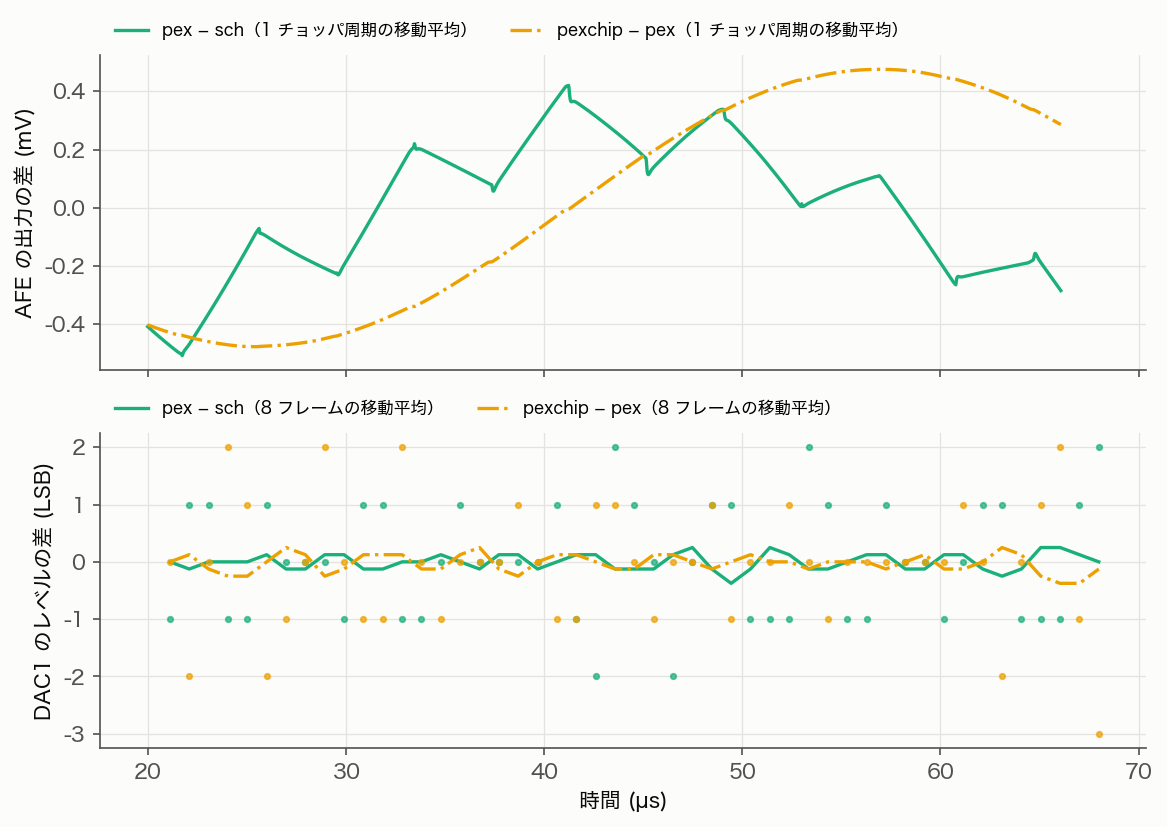
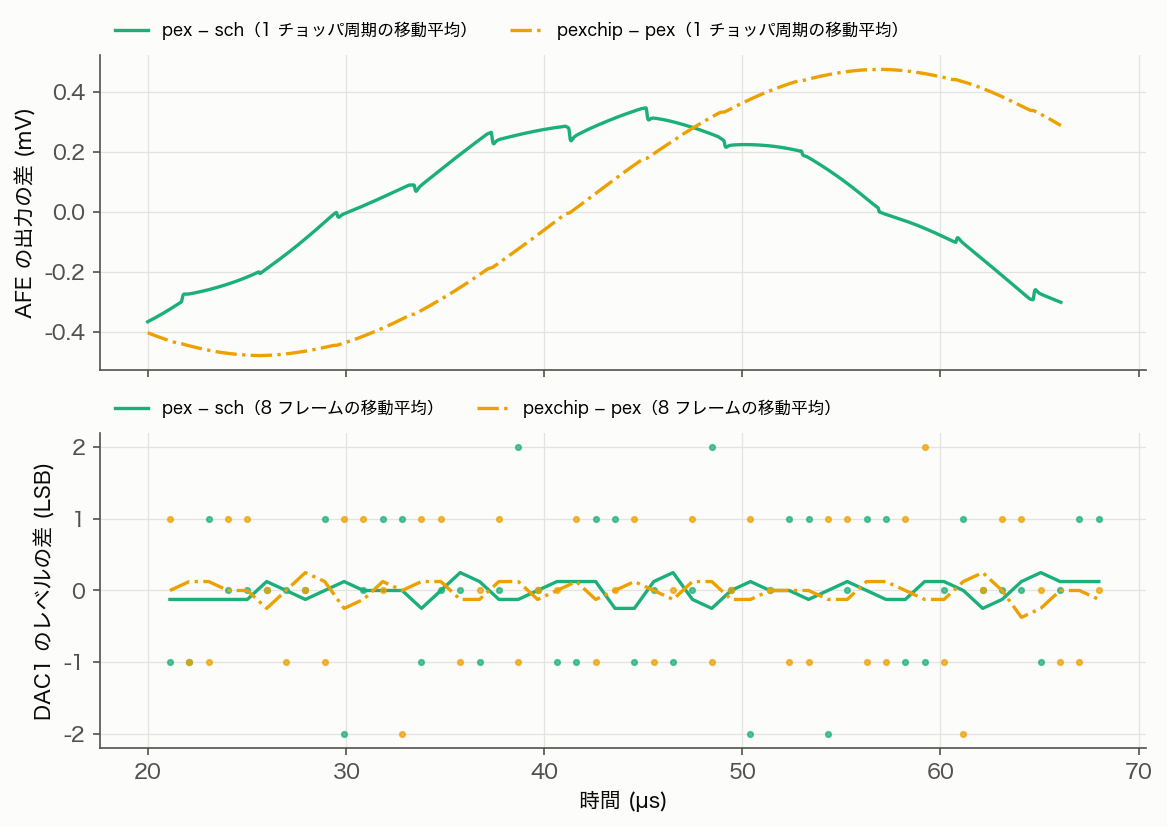
GF180 可視化／D4／D6：可視化の図（20、23、24 を除く）と寄生込みの E2E の図を 4 回目のチップ（9b5f495a）で作り直し、配線抵抗・歪み・E2E を測り直した。配線抵抗（pex_rin.py）：E 0.168／0.211、W 0.343／0.570、T 0.119／0.124 Ω。WN の W が 0.339 → 0.570 Ω に増えていた（電極の DC 電流の直しで、チョッパの下の WN の面からゲートのレーンの通路を外したため、通路を渡るのが Cin_N のバス 5 µm だけになった）。pex_afe.py の RIN_EXTRACTED を 4 回目の値にし

diff --git a/first_tapeout_eeg/gf180/tapeout/viz/figs.py b/first_tapeout_eeg/gf180/tapeout/viz/figs.py
@@ -30,7 +30,7 @@ from vizstyle import ACCENT, BAD, HAIR, INK, INK2, LIGHT, MUTED, OK, WARN, figur
 DATA, OUT = sys.argv[1], sys.argv[2]
 os.makedirs(OUT, exist_ok=True)
 PREFIX = "gf180_viz_20261024_"
-STAMP = "Final layout, 24 Oct 2026"
+STAMP = "Final layout, 25 Oct 2026"
 
 # net-class palette (checked for colour-vision deficiency separation in this order)
 PAL = {"Supply": "#ea580c", "Ground": "#4f46e5", "Electrode input": "#e11d48", "AFE output": "#0d9488",
@@ -477,7 +477,8 @@ def fig_rwire():
                  "Noise-equivalent series resistance per side (Ω, log): E pad to chopper · W chopper to the Cin bottom plate · "
                  "T Cin top plate to the input-pair gates",
                  note="T was set by the auto-routed gate wiring of the input pair (0.38 µm wires, single vias) before the D6 fixes. "
-                      "The per-side target for 16.50 bit is 0.35 Ω.")
+                      "The per-side target for 16.50 bit is 0.35 Ω.\nW · N is 0.23 Ω above W · P: below the chopper only the 5 µm "
+                      "Cin_N bus crosses the corridor of the chopper's gate lanes (since 25 Oct, electrode-current fix).")
     ax = fig.add_subplot()
     n = len(groups)
     y = np.arange(n)[::-1] * 1.0
@@ -526,7 +527,9 @@ def fig_dist():
                 ax.plot([hi + off, hi + off], [-175, val], color=vcol[v], lw=1.6, alpha=0.45, solid_capstyle="butt")
                 ax.scatter([hi + off], [val], s=44, color=vcol[v], zorder=3, edgecolor="white", linewidth=0.8,
                            label=v if hi == 0 or (h == "HD2" and v.startswith("Single")) else None)
-                ax.text(hi + off + 0.06, val + 2.2, f"{val:.0f}".replace("-", "−"), fontsize=7.4, color=vcol[v], ha="left", va="bottom")
+                left = vi == 0 and len(vers) > 1          # (labels outward, clear of the neighbouring stem)
+                ax.text(hi + off + (-0.06 if left else 0.06), val + 2.2, f"{val:.0f}".replace("-", "−"), fontsize=7.4, color=vcol[v],
+                        ha="right" if left else "left", va="bottom")
         ax.axhline(-111, color=BAD, ls=(0, (5, 3)), lw=1)
         ax.text(3.45, -111 + 1.5, "spec ≤ −111 dBc", ha="right", va="bottom", fontsize=8, color=BAD)
         ax.set_xticks(range(4), harm)
@@ -547,7 +550,7 @@ def fig_metrics():
     dm = {r["metric"]: r for r in load("adc_metrics")}
     fig = figure(13.6, 7.6, "Schematic against layout, AFE and ADC",
                  "Each panel compares the schematic, the 10/23 extraction (before the D6 fixes) and the final extracted layout",
-                 note="AFE gain from the ±0.5 mV chopped transient (200 µs); the 70 µs end-to-end sine gives 291.45 V/V (schematic) and 291.36 V/V (final). "
+                 note="AFE gain from the ±0.5 mV chopped transient (200 µs); the 70 µs end-to-end sine gives 291.45 V/V (schematic) and 291.34 V/V (final). "
                       "SNDR values are the low end of each simulated range.\nADC 'after fixes' is the 10/24 extraction before the B4 latch fix; "
                       "the decision-accuracy panel also shows the value after it.")
     axs = fig.subplots(2, 5)
@@ -685,7 +688,7 @@ def fig_checks():
         colours[(i, 3)] = OK if res in ("pass", "match") else BAD if res == "no result" else WARN
         body.append([r["check"], r["scope"], r["tool"], "● " + res, "–" if r["violations"] == "" else f"{int(num(r['violations'])):,}", r["detail"]])
     table_fig("13_checks", "Checks on the final chip",
-              "DRC, LVS, wafer.space precheck, Magic and digital verification · 23–24 Oct 2026",
+              "DRC, LVS, wafer.space precheck, Magic and digital verification · 23–25 Oct 2026",
               ["Check", "Scope", "Tool", "Result", "Violations", "Detail"], body, [0.22, 0.15, 0.2, 0.09, 0.07, 0.27],
               note="The precheck's Magic step crashes inside Magic and is reported as 0 by LibreLane; Magic DRC was rerun without the "
                    "dummy COMP fill. Its two remaining rule types come from the Magic deck's wording; the drawn geometry meets both.",

diff --git a/first_tapeout_eeg/gf180/tapeout/viz/figs_perf.py b/first_tapeout_eeg/gf180/tapeout/viz/figs_perf.py
@@ -196,8 +196,9 @@ def fig_e2e_effects():
     pe, d = e2e_runs()
     fig = figure(12.4, 9.0, "End-to-end run: what the parasitics change",
                  "Evaluation window 20–70 µs · the same 16 kHz full-scale sine as the previous figure",
-                 note="Middle: the A/B square wave decays with the DC path's time constant (fit 143 µs, DC path 138 µs): the "
-                      "P/N imbalance left when the AFE reset is released. The AFE alone settles to 2.02 mV p-p (0.1–1.5 ms).\n"
+                 note="Middle: the A/B square wave is the P/N imbalance left when the AFE reset is released; it decays (fit 101 µs "
+                      "in this window, DC path 138 µs). Before the 25 Oct fix of the input chopper's clock coupling (WP against WN) "
+                      "it was 18.8 mV.\nThe AFE alone settles to 2.38 mV p-p (0.1–1.5 ms). "
                       "Bottom: the residual is noise-shaped quantization error, mostly above the band; one DAC1 element is "
                       "1/31 = 0.032 of the range.")
     axs = fig.subplots(3, 1, sharex=True)
@@ -274,8 +275,9 @@ def fig_e2e_metrics():
     dots(axs[0, 2], "residual", "DAC1 residual after the sine fit", "rms (DAC1 range = 1)", (0, 0.045), "{:.4f}",
          ref=1 / 31, ref_lab="one element")
     dots(axs[0, 3], "avdd_ma", "AVDD current", "mA", (26.0, 28.5), "{:.2f}")
-    dots(axs[1, 0], "ab_mv", "AFE output, phase A − B", "mV", (0, 24), "{:.2f}", ref=2.02, ref_lab="AFE alone, settled: 2.02",
+    dots(axs[1, 0], "ab_mv", "AFE output, phase A − B", "mV", (-6, 6), "{:+.2f}", ref=2.38, ref_lab="AFE alone, settled: 2.38 p-p",
          side=True, ref_right=True)
+    axs[1, 0].axhline(0, color=HAIR, lw=1)
     ax = axs[1, 1]
     v = [max(-s[r]["adc_in_min_mv"], s[r]["adc_in_max_mv"]) for r in runs]
     for xi, vi, r in zip(x, v, runs):

diff --git a/first_tapeout_eeg/gf180/tapeout/pex/plot_e2e.py b/first_tapeout_eeg/gf180/tapeout/pex/plot_e2e.py
@@ -232,7 +232,7 @@ def main():
         ax[0].plot(us(tt), -fitv * 0.96875 * 1e3, color=STYLE[r]["color"], ls=STYLE[r]["ls"], lw=1.2)
         ax[1].plot(us(d["tk"]), d["rn"], color=STYLE[r]["color"], ls=STYLE[r]["ls"], lw=1.0, marker="o", ms=2)
     ax[0].set_ylabel("DAC1 のレベル、符号を反転 (mV)")
-    ax[1].set_ylabel("量子化の残差（DAC の段）")
+    ax[1].set_ylabel("量子化の残差（DAC1 の範囲 = 1）")
     ax[1].set_xlabel("時間 (µs)")
     top_legend(ax[0], runs, [key_dot("点：フレームの中ほどの値"), key_line("線：16 kHz の正弦波の当てはめ"),
                              key_line(f"電極の入力 × {gref:.1f}（sch の全体の利得）", color=INK, lw=0.8)])
@@ -274,7 +274,7 @@ def main():
 
     # 7 table
     rows = [("AFE の利得（周期平均の当てはめ）", "gain_afe", "{:.1f}"), ("全体の利得（電極 → DAC1）", "gain_all", "{:.1f}"),
-            ("ADC の利得（AFE の出力 → DAC1）", "gain_adc", "{:.3f}"), ("量子化の残差（DAC の段、rms）", "residual", "{:.4f}"),
+            ("ADC の利得（AFE の出力 → DAC1）", "gain_adc", "{:.3f}"), ("量子化の残差（DAC1 の範囲 = 1、rms）", "residual", "{:.4f}"),
             ("AVDD の電流 (mA)", "avdd_ma", "{:.2f}"), ("AFE の出力の相 A − B の差 (mV)", "ab_mv", "{:+.2f}"),
             ("ADC の入力の瞬時値 最小 (mV)", "adc_in_min_mv", "{:.1f}"), ("同 最大 (mV)", "adc_in_max_mv", "{:.1f}"),
             ("O1 最小／最大 (mV)", ("o1_min_mv", "o1_max_mv"), "{:.1f}／{:.1f}"),

diff --git a/first_tapeout_eeg/gf180/tapeout/pex/pex_afe.py b/first_tapeout_eeg/gf180/tapeout/pex/pex_afe.py
@@ -76,12 +76,14 @@ def ports():
 
 # wiring resistance of the signal path per side (pex_rin.py, typical, ohm): electrode
 # side E (in series with the source), Cin bottom-plate side W (chopper to Cin), top-plate
-# side T (Cin to the input-pair gates). The chip of 10/24 (D6 fixes 1-7), pex_rin.py on the
-# chip core: E with the pad straps (--algo tess on Metal3..5; square 0.174 / 0.215), W with
-# the Metal3 sheet under Cin meshed (--tess m3; square 0.204 / 0.198, which misses the
-# spreading in the sheet), T square; 10/23 before the fixes: E 0.350 / 0.346, W 3.970 / 3.935,
-# T 71.60 / 114.59
-RIN_EXTRACTED = {"E": (0.171, 0.213), "W": (0.344, 0.339), "T": (0.119, 0.124)}
+# side T (Cin to the input-pair gates). The chip of 10/25 (fourth assembly, 9b5f495a),
+# pex_rin.py on the chip core: E with the pad straps (--tess m3 m4 m5), W with the Metal3
+# sheet under Cin meshed (--tess m3; SquareCounting misses the spreading in the sheet), T
+# square. WN is 0.23 ohm above the 10/24 chip (0.339): the WN sheet below the chopper now
+# leaves the corridor of the chopper's gate lanes (afe_lay.w_entry), and only the 5 um Cin_N
+# bus crosses it. 10/24: E 0.171 / 0.213, W 0.344 / 0.339, T 0.119 / 0.124; 10/23 before the
+# D6 fixes: E 0.350 / 0.346, W 3.970 / 3.935, T 71.60 / 114.59
+RIN_EXTRACTED = {"E": (0.168, 0.211), "W": (0.343, 0.570), "T": (0.119, 0.124)}
 
 
 def split_signal_path(text, variant):

diff --git a/first_tapeout_eeg/documentation/gf180_tapeout_tracker.md b/first_tapeout_eeg/documentation/gf180_tapeout_tracker.md
@@ -85,9 +85,9 @@
 | D1 | デッキの頑健化：バイアス源に出力抵抗、量子化器モデルの X を解決。理想 DAC2 のループデッキで 1.25 ms を完走（`gf180/tapeout/sim/adc_loop/make_deck.py`） | 10/24 | ✅ |
 | D2 | L1：AFE の周期雑音と歪み、ADC ブロックの特性。AFE は雑音（静止解析の高調波和）、静的な歪み、チョッパ動作の歪み（ブランキング込み）を評価済み。ADC はトランジスタ DAC2 のループで、1 kHz の歪みが 8 ms の分解能（約 −110 dBc）で見えないことを確認。長い実行（500 Hz、`gf180/tapeout/sim/adc_loop/analyze_tone.py`）で見えた HD5（−107〜−115 dBc）は、OTA を理想にしたデッキ（`make_deck.py --ota1 ideal`、16 ms）でも −111 dBc で、周りの bin も同じ高さだった。2.5 kHz 付近の量子化雑音の床で、歪みではない（10/22）。量子化器は単体と全体を確認済み（B4）。ADC ブロックのコーナーは B2 | 11/14 | ✅ |
 | D3 | L2：較正済み行動モデルで受入行列（4 s／20 s、PVT、ミスマッチ） | 11/14 | ▶（量子化・DAC 誤差は済み） |
-| D4 | L3：AFE＋ADC＋DAC セル＋量子化器の短窓トランジスタ E2E。10/22：`gf180/tapeout/sim/e2e/e2e_deck.py`（AFE とそのクロックドライバ、ADC ブロック、バイアス生成、基準電圧のフィルタ。typical）で 70 µs を回した。16 kHz・フルスケールの正弦波で、AFE の出力（チョッパ周期の平均）の利得 268.9（周期平均の sinc を除くと約 276）、ADC まで含めた全体 282、量子化の残差 0.031（DAC の段の単位、ADC 単体と同じ）、AVDD 27.2 mA。窓が 16 kHz の 0.8 周期しかないので、利得の精度は数 %。AFE_RST を解除した瞬間の入力が Cin に残る起動時の現象を見つけた（AFE の文書）。1 本 45〜75 分。10/24：寄生込みの E2E（`gf180/tapeout/pex/pex_e2e.py`、`gf180_pex_20261023.md` の「寄生込みの E2E」、図 `documentation/figures/gf180_e2e_pex_20261024_*.png`）。AFE と ADC を最終のチップ（B7、B4 の直し込み）の抽出に差し替え、Ch-A を横切る OUTP／OUTN のチップの配線（74／70 fF、片側 35.6 Ω）も足して、回路図と比べた。AFE の利得 291.4（回路図 291.5、配線込み 290.9）、全体 301.2〜301.9、AVDD 27.2 mA、O2 −33〜+34 mV で同等。量子化の残差は寄生込みで約 2 倍（0.017 → 0.032、帯域の外）。リセットの解除のあとの相 A／B の不釣り合い（寄生込みで 19 mV、時定数 143 µs で抜ける）で、ADC の入力の瞬時値は最大 297 mV（フルスケール 300 mV の内側）。仕様を外れるものはない。残り：コーナー | 11/17 | ▶（typical ✅、寄生込み ✅） |
+| D4 | L3：AFE＋ADC＋DAC セル＋量子化器の短窓トランジスタ E2E。10/22：`gf180/tapeout/sim/e2e/e2e_deck.py`（AFE とそのクロックドライバ、ADC ブロック、バイアス生成、基準電圧のフィルタ。typical）で 70 µs を回した。16 kHz・フルスケールの正弦波で、AFE の出力（チョッパ周期の平均）の利得 268.9（周期平均の sinc を除くと約 276）、ADC まで含めた全体 282、量子化の残差 0.031（DAC の段の単位、ADC 単体と同じ）、AVDD 27.2 mA。窓が 16 kHz の 0.8 周期しかないので、利得の精度は数 %。AFE_RST を解除した瞬間の入力が Cin に残る起動時の現象を見つけた（AFE の文書）。1 本 45〜75 分。10/24：寄生込みの E2E（`gf180/tapeout/pex/pex_e2e.py`、`gf180_pex_20261023.md` の「寄生込みの E2E」、図 `documentation/figures/gf180_e2e_pex_20261024_*.png`）。AFE と ADC を最終のチップ（B7、B4 の直し込み）の抽出に差し替え、Ch-A を横切る OUTP／OUTN のチップの配線（74／70 fF、片側 35.6 Ω）も足して、回路図と比べた。AFE の利得 291.4（回路図 291.5、配線込み 290.9）、全体 301.2〜301.9、AVDD 27.2 mA、O2 −33〜+34 mV で同等。量子化の残差は寄生込みで約 2 倍（0.017 → 0.032、帯域の外）。リセットの解除のあとの相 A／B の不釣り合い（寄生込みで 19 mV、時定数 143 µs で抜ける）で、ADC の入力の瞬時値は最大 297 mV（フルスケール 300 mV の内側）。仕様を外れるものはない。10/25：4 回目のチップ（電極の DC 電流の直しのあと）の抽出で回し直した。AFE の利得 291.3（配線込み 290.8）、全体 301.5〜302.5、量子化の残差 0.028／0.021。相 A／B の不釣り合いは 19 → −2.6 mV（その大きさは入力チョッパのクロックの結合の WP／WN の差で決まっていた）、ADC の入力の瞬時値は ±287 mV で回路図と同じ。残り：コーナー | 11/17 | ▶（typical ✅、寄生込み ✅） |
 | D5 | 今回 rev の構成決定レビュー | 11/18 | ⏳ |
-| D6 | L4：重要ブロックの PEX 確認（チョッパの寄生結合、AFE 入力節点、積分器・DAC）。10/23：magic で寄生容量を抽出し（ネット名は KLayout の LVS の結果で回路図に対応づけ、MIM の基板容量は下の板へ補正）、入力の信号経路の配線抵抗は KLayout の R 抽出で求めた。AFE、ADC のループ、DAC1、OTA1 のチョッパを、回路図・抽出した素子だけ・寄生込みの 3 つで比べた（`gf180/tapeout/pex/`、`documentation/gf180_pex_20261023.md`）。寄生容量だけなら差は小さい（AFE の雑音 4.64 → 4.70 nVrms、利得 −0.2 %、HD3 −116 dBc、ADC のループの利得・CM・電流、積分器の整定は同等）。**仕様を外れるもの 4 つ**：① 入力の信号経路の配線抵抗が片側 76／119 Ω（コアの入力対のゲート配線 72／115、Cin の下の板の網 4.0、チョッパの EP／EN 0.35）で、AFE の雑音 19.1 nVrms、約 14.8 bit。② DAC1 の偶成分 0.47〜0.69 fC（要求 0.008 fC）で SNDR 約 70 dB。③ DC 経路のスイッチの CIB2 の結合の非対称で AFE の出力に 39 mV p-p のリップル。④ 量子化器の入力の結合の非対称で判定が平均 +2.4 LSB ずれる。原因と直し方（目標値つき）は文書の「直し方」。直したあと同じ流れで確かめる。10/24：4 件をレイアウトで直し（E3、E4）、チップを組み直して抽出と比較を回し直した（文書の「直したあとの確認」）。4 件とも仕様の内側に戻った：配線抵抗は片側 0.634／0.676 Ω（チップで測定。Cin の下の Metal3 の面は Tesselation）、DAC1 の偶成分 −0.0014 fC（123 dB）、リップル 3.62 mV p-p、量子化器の入力の結合はそろい、ループの残差 0.027。AFE の雑音は寄生込みで 4.81 nVrms、配線抵抗込みで 5.05 nVrms、総残差 6.05〜6.07 nVrms（16.45〜16.46 bit）で、16.50 bit に 0.04〜0.05 bit 足りない（片側 0.35 Ω まで下げるには AFE の配置の変更が要り、今回 rev はこの形）。抽出の補正を直した：magic が MIM の上の板に付ける、下の導体（Cin の下の Metal3 の面など）への容量を下の板へ移す（`pex.py` の `mim_shield`。AFE で WP–INP の見かけの 21.3 pF を消した）。**新しく 1 件が仕様を外れた**（直し方 1、2 の副作用）：INP と増幅器の出力 ONI／OPI の結合（P 側だけ 617／526 fF。コアの上端で INP を Cin のバスへつなぐ Metal5 の下を ONI／OPI の Metal4 が通る）で、フルスケールの HD2 −70 dBc（仕様 −111 dBc 以下）、利得 −2 % 前後。抽出からこの結合だけを除くと HD2 −114 dBc に戻る。E3 で直した（幹線を移して遮蔽、出力部の P 側を N 側の鏡映に。4 つの結合は 9 fF 以下、HD2〜HD5 −113.8／−117.2／−120.9／−137.7 dBc、利得は回路図に戻った）。リップルは 4.00 mV p-p（目標の境、クロックの線と出力の結合の P／N の差。帯域の外なので受け入れ）。チップを組み直した（E7）。2 回目までの歪みの確認は 2 kHz だけで、帯域内の低い周波数の HD2（DC 経路が 1 本で −87 dBc）は B7 の確認で見つかり、DC 経路を対称にして直した（0cb0fff4）。B7 と B4 の直しを入れた最終のチップ（3 回目、10/24）で確かめ直した：帯域内のフルスケールの HD2〜HD5 −132.7／−120.4／−160.9／−144.5 dBc、リップル 2.02 mV p-p、AFE の雑音 4.81 nVrms（配線抵抗込み 5.05）、配線抵抗は片側 0.634／0.676 Ω で変わらず。チップは DRC 違反なし、LVS 一致、穴埋めのあとの全 DRC も違反なし、precheck 通過。**10/25：信号がなくても電極に流れる DC 電流を調べて直した**（文書の「電極に流れる DC 電流（10/25）」）。3 回目の抽出の I_ELP −40.0／I_ELN +33.3 nA（`viz_data.py zin`）のうち、同相の −3.4 nA ずつは ngspice の GMIN による見かけ（抽出の入力 TG が PMOS M=1024・NMOS M=512 の 1 素子ずつで、接合ごとの GMIN が打ち消さない）で、実際は差動 ±36.6 nA。入力チョッパのゲートのクロックの結合が WP と WN で違い（チョッパの中のストラップの並びで WN だけが CIA／NCIA のピンの隣、ゲートの折り返しが WN の面の下、上端の WP の板、OFPH の西の線が WN の面の下）、交換器が電荷を一方の電極から他方へ運んでいた。電極の要求を 1 本あたり 1 nA 以下（1 MΩ で 1 mV）とし、1 MΩ で片側 37 mV（16.5 bit の前提の電極オフセット数 mV を外れる）なので不適合と判断して、E3 のレイアウトで直した：差動 ±1.65 nA（22 分の 1、ポンプに効く結合の差 −90.6 → +0.6 fF）、チップの配線を足して ±1.35 nA。残りはコアの INP／INN の寄生の非対称による（抽出で INP／INN を対称にすると差動 +0.5 nA）。今回 rev はこの値で受け入れる（1 MΩ で片側 1.65 mV、範囲 1 の内側）。雑音 4.811 nVrms（配線抵抗込み 5.048）、利得 297.89 は変わらない | 10/30 | ✅ |
+| D6 | L4：重要ブロックの PEX 確認（チョッパの寄生結合、AFE 入力節点、積分器・DAC）。10/23：magic で寄生容量を抽出し（ネット名は KLayout の LVS の結果で回路図に対応づけ、MIM の基板容量は下の板へ補正）、入力の信号経路の配線抵抗は KLayout の R 抽出で求めた。AFE、ADC のループ、DAC1、OTA1 のチョッパを、回路図・抽出した素子だけ・寄生込みの 3 つで比べた（`gf180/tapeout/pex/`、`documentation/gf180_pex_20261023.md`）。寄生容量だけなら差は小さい（AFE の雑音 4.64 → 4.70 nVrms、利得 −0.2 %、HD3 −116 dBc、ADC のループの利得・CM・電流、積分器の整定は同等）。**仕様を外れるもの 4 つ**：① 入力の信号経路の配線抵抗が片側 76／119 Ω（コアの入力対のゲート配線 72／115、Cin の下の板の網 4.0、チョッパの EP／EN 0.35）で、AFE の雑音 19.1 nVrms、約 14.8 bit。② DAC1 の偶成分 0.47〜0.69 fC（要求 0.008 fC）で SNDR 約 70 dB。③ DC 経路のスイッチの CIB2 の結合の非対称で AFE の出力に 39 mV p-p のリップル。④ 量子化器の入力の結合の非対称で判定が平均 +2.4 LSB ずれる。原因と直し方（目標値つき）は文書の「直し方」。直したあと同じ流れで確かめる。10/24：4 件をレイアウトで直し（E3、E4）、チップを組み直して抽出と比較を回し直した（文書の「直したあとの確認」）。4 件とも仕様の内側に戻った：配線抵抗は片側 0.634／0.676 Ω（チップで測定。Cin の下の Metal3 の面は Tesselation）、DAC1 の偶成分 −0.0014 fC（123 dB）、リップル 3.62 mV p-p、量子化器の入力の結合はそろい、ループの残差 0.027。AFE の雑音は寄生込みで 4.81 nVrms、配線抵抗込みで 5.05 nVrms、総残差 6.05〜6.07 nVrms（16.45〜16.46 bit）で、16.50 bit に 0.04〜0.05 bit 足りない（片側 0.35 Ω まで下げるには AFE の配置の変更が要り、今回 rev はこの形）。抽出の補正を直した：magic が MIM の上の板に付ける、下の導体（Cin の下の Metal3 の面など）への容量を下の板へ移す（`pex.py` の `mim_shield`。AFE で WP–INP の見かけの 21.3 pF を消した）。**新しく 1 件が仕様を外れた**（直し方 1、2 の副作用）：INP と増幅器の出力 ONI／OPI の結合（P 側だけ 617／526 fF。コアの上端で INP を Cin のバスへつなぐ Metal5 の下を ONI／OPI の Metal4 が通る）で、フルスケールの HD2 −70 dBc（仕様 −111 dBc 以下）、利得 −2 % 前後。抽出からこの結合だけを除くと HD2 −114 dBc に戻る。E3 で直した（幹線を移して遮蔽、出力部の P 側を N 側の鏡映に。4 つの結合は 9 fF 以下、HD2〜HD5 −113.8／−117.2／−120.9／−137.7 dBc、利得は回路図に戻った）。リップルは 4.00 mV p-p（目標の境、クロックの線と出力の結合の P／N の差。帯域の外なので受け入れ）。チップを組み直した（E7）。2 回目までの歪みの確認は 2 kHz だけで、帯域内の低い周波数の HD2（DC 経路が 1 本で −87 dBc）は B7 の確認で見つかり、DC 経路を対称にして直した（0cb0fff4）。B7 と B4 の直しを入れた最終のチップ（3 回目、10/24）で確かめ直した：帯域内のフルスケールの HD2〜HD5 −132.7／−120.4／−160.9／−144.5 dBc、リップル 2.02 mV p-p、AFE の雑音 4.81 nVrms（配線抵抗込み 5.05）、配線抵抗は片側 0.634／0.676 Ω で変わらず。チップは DRC 違反なし、LVS 一致、穴埋めのあとの全 DRC も違反なし、precheck 通過。**10/25：信号がなくても電極に流れる DC 電流を調べて直した**（文書の「電極に流れる DC 電流（10/25）」）。3 回目の抽出の I_ELP −40.0／I_ELN +33.3 nA（`viz_data.py zin`）のうち、同相の −3.4 nA ずつは ngspice の GMIN による見かけ（抽出の入力 TG が PMOS M=1024・NMOS M=512 の 1 素子ずつで、接合ごとの GMIN が打ち消さない）で、実際は差動 ±36.6 nA。入力チョッパのゲートのクロックの結合が WP と WN で違い（チョッパの中のストラップの並びで WN だけが CIA／NCIA のピンの隣、ゲートの折り返しが WN の面の下、上端の WP の板、OFPH の西の線が WN の面の下）、交換器が電荷を一方の電極から他方へ運んでいた。電極の要求を 1 本あたり 1 nA 以下（1 MΩ で 1 mV）とし、1 MΩ で片側 37 mV（16.5 bit の前提の電極オフセット数 mV を外れる）なので不適合と判断して、E3 のレイアウトで直した：差動 ±1.65 nA（22 分の 1、ポンプに効く結合の差 −90.6 → +0.6 fF）、チップの配線を足して ±1.35 nA。残りはコアの INP／INN の寄生の非対称による（抽出で INP／INN を対称にすると差動 +0.5 nA）。今回 rev はこの値で受け入れる（1 MΩ で片側 1.65 mV、範囲 1 の内側）。雑音 4.811 nVrms、利得 297.89 は変わらない。副作用：チョッパの下の WN の面からゲートのレーンの通路を外したため、WN の W の配線抵抗が 0.339 → 0.570 Ω（通路を渡るのが Cin_N のバス 5 µm だけ）。配線抵抗込みの雑音 5.048 → 5.086 nVrms、総残差 6.05 → 6.08 nVrms（16.46 → 16.45 bit）。直すなら通路の上に WN の Metal5 だけを戻す（`gf180_pex_20261023.md`）。10/25 午後：可視化の図（`gf180_viz_20261024.md`）と、配線抵抗・歪み・寄生込みの E2E を 4 回目のチップで測り直した：帯域内の静的な HD2〜HD5 −165.8／−120.3／−148.9／−145.5 dBc、2 kHz −134.1／−118.2／−143.9／−141.6 dBc（仕様の内側） | 10/30 | ✅ |
 
 ## E. レイアウトと統合
 

diff --git a/first_tapeout_eeg/documentation/gf180_viz_20261024.md b/first_tapeout_eeg/documentation/gf180_viz_20261024.md
@@ -1,6 +1,6 @@
 # GF180 EEG チップの可視化（2026-10-24、最終のレイアウト）
 
-最終のチップ（24fd1411、precheck 通過）の配置と配線、ブロック、雑音と歪み、回路図と抽出の比較、検証、パッド、日程、寄生込みの E2E、Bode 線図、NTF／STF、入力インピーダンスを図にした。図の文字はすべて英語。
+最終のチップ（10/25 に 4 回目の 9b5f495a、precheck pre_20261025 通過で作り直した。10/24 の初版は 3 回目の 24fd1411）の配置と配線、ブロック、雑音と歪み、回路図と抽出の比較、検証、パッド、日程、寄生込みの E2E、Bode 線図、NTF／STF、入力インピーダンスを図にした。図の文字はすべて英語。
 
 - 図：`documentation/figures/gf180_viz_20261024_NN_*.png`（24 枚）
 - スクリプト：`gf180/tapeout/viz/`
@@ -17,6 +17,15 @@ gf180/tools/venv310/bin/python gf180/tapeout/viz/figs.py gf180/tapeout/viz/data 
 ```bash
 gf180/tools/venv310/bin/python gf180/tapeout/viz/figs_perf.py gf180/tapeout/pex documentation/figures
 ```
+
+## 10/25 の作り直し（4 回目のチップ）
+
+電極の DC 電流の直し（入力チョッパのクロックの結合、`gf180_pex_20261023.md` の「電極に流れる DC 電流（10/25）」）を入れた 4 回目のチップで、全部の図の元を取り直した。20、23、24 は PEX のセッション（7b00825f）、ほかはこの作り直し。
+- 01〜04：`extract.py` を 4 回目の GDS と LVS の結果で回し直した。変わったのは西の端子の列の OFPH と CHOP_EN の入れ替えの分だけ（数 µm² と via3 1 個）。05、06、14 は中身が同じで、日付だけ。
+- 07〜09：配線抵抗を `pex_rin.py` で測り直した（4 回目のチップのコア）。WN の W が 0.339 → 0.570 Ω（チョッパの下の WN の面からゲートのレーンの通路を外したため、通路を渡るのが Cin_N のバス 5 µm だけになった）。両側 1.31 → 1.54 Ω、1.47 → 1.59 nVrms。配線抵抗込みの AFE の雑音 5.048 → 5.086 nVrms、総残差 6.05 → 6.08 nVrms（16.46 → 16.45 bit）。
+- 10：2 kHz の HD2 −127.7 → −134.1 dBc、帯域内の静的な HD2〜HD5 −165.8／−120.3／−148.9／−145.5 dBc（前 −132.7／−120.4／−160.9／−144.5）。どれも仕様 −111 dBc の内側。
+- 11：AFE の残留オフセット −0.37 → −0.24 µV、リップル 2.02 → 2.38 mV p-p。12：穴埋めのあとの密度（Metal5 65.10 → 65.07 % など）。13：検証の日付と precheck のタグ。
+- 16〜18：寄生込みの E2E の pex と pexchip を回し直した。AFE の出力の相 A − B が +18.8 → −2.6 mV、ADC の入力の山 −294〜+297 → −286.8〜+287.0 mV。19：AFE のループ（gmin 1e-15、4 桁まで同じ）。21、22 は ADC だけ、15 は管理表の状態が同じなので、描き直しても同じ図。
 
 ## 図の決まり
 
@@ -63,9 +72,9 @@ gf180/tools/venv310/bin/python gf180/tapeout/viz/figs_perf.py gf180/tapeout/pex 
 - **AFE の帯域内の伝達（20）の線は、ブランキングを入れていない高調波の和。** チョッパの縁ごとの整定を数えるので、回路図 287.2、最終の抽出 284.8 になる。
   - 菱形のブランキングありの過渡は、回路図 299.07（100 Hz〜16 kHz、50 kHz で 299.57）、最終の抽出 298.94（1 kHz）。和より 4.0／4.7 % 高く、チョッパを止めた形の帯域内の |H|（299.2／298.8）とほぼ同じ。50 kHz まで平らで、位相は 89 ns の遅れと同じ形。
   - E2E の AFE の利得 291.5（16 kHz）は周期平均の値で、299.11 × sinc(16 kHz × 7.8125 µs) = 291.5 と合う。
-- **E2E（16〜18）は 70 µs の短い窓。** 利得の精度は数 %。相 A／B の差 18.8 mV（抽出）は、AFE のリセットを解いた直後の DC 経路の過渡（時定数 約 140 µs）で、AFE 単体では 2.02 mV p-p まで下がる。
+- **E2E（16〜18）は 70 µs の短い窓。** 利得の精度は数 %。相 A／B の差 −2.6 mV（抽出）は、AFE のリセットを解いた直後の P／N の不釣り合いが抜けていく起動の過渡（窓の中の当てはめで時定数 約 100 µs）で、AFE 単体では 2.38 mV p-p まで下がる。3 回目のチップでは +18.8 mV（時定数 143 µs）で、その大きさは入力チョッパのクロックの結合の WP／WN の差で決まっていた。
 - **DAC1 の残差の単位は「DAC1 の範囲 = 1」**（1 素子 = 1/31 = 0.032）。図 11 の「ADC のループの残差」も同じ単位（以前の「DAC の段」という書き方を改めた）。
-- 図 11 の AFE の利得 297.9 は ±0.5 mV のチョッパ動作の過渡（200 µs）の値。70 µs の E2E の正弦波では回路図 291.45、最終の抽出 291.36 で、ほぼ同じ。
+- 図 11 の AFE の利得 297.9 は ±0.5 mV のチョッパ動作の過渡（200 µs）の値。70 µs の E2E の正弦波では回路図 291.45、最終の抽出 291.34 で、ほぼ同じ。
 
 ![Floorplan and top-level routing](figures/gf180_viz_20261024_01_floorplan_routing.png)
 

diff --git a/first_tapeout_eeg/documentation/gf180_afe_d6_fix_20261024.md b/first_tapeout_eeg/documentation/gf180_afe_d6_fix_20261024.md
@@ -192,4 +192,4 @@ afe_top（`afe_lay.py`）：
 
 - `afetg_lay.py`：ストリップを 1 本おきに P／N の鏡像にした（S/D の並びとストラップの並びの EP↔EN、WP↔WN。上の PMOS セルは反対の偶奇から）。各ストリップの一番上のストラップが自分の CIA／NCIA のゲートピンと 0.64 µm で並ぶので、どのストリップも同じ並びでは WN だけがその隣にいた。WN の縞を最上段のストリップのゲートピンの上まで伸ばし、ゲートのレーンの並びを CIA CIB NCIB NCIA にした。
 - `afe_lay.py`：ゲートの折り返しを Metal4 から Metal2 にして、WN の面の下からクロックドライバのすぐ上へ移した。レーンは WN のない通路を上る（WN の板の東の縁を西のレーンから 6 µm、東の板を 6.5 µm 離した）。チョッパの上の WP の Metal3／Metal4 の板と Metal5 の縞の広がりを、ブロックの上端の 0.6 µm 上から始めた。西の端子の列で OFPH と CHOP_EN を入れ替えた（OFPH の縁は新しい相の TG が閉じた直後なので、WN の面の下では 1 周期に C·VDD を運ぶ）。
-- 旧い折り返しと、外した W の板の Metal3／Metal4 の跡は、配線器の障害物として残した。配線器の結果は 3 回目と同じ（GDS の XOR で、変わったのは上の場所と OFPH／CHOP_EN の西の列だけ）。afe_tgin と afe_top は DRC 違反なし、LVS 一致。雑音 4.811 nVrms（配線抵抗込み 5.048）、利得 297.89 は変わらない。
+- 旧い折り返しと、外した W の板の Metal3／Metal4 の跡は、配線器の障害物として残した。配線器の結果は 3 回目と同じ（GDS の XOR で、変わったのは上の場所と OFPH／CHOP_EN の西の列だけ）。afe_tgin と afe_top は DRC 違反なし、LVS 一致。雑音 4.811 nVrms、利得 297.89 は変わらない。ただし WN の W の配線抵抗は 0.339 → 0.570 Ω に増えた（通路を渡る WN が Cin_N のバス 5 µm だけになったため。配線抵抗込みの雑音 5.086 nVrms。`gf180_pex_20261023.md` の「電極に流れる DC 電流（10/25）」）。
